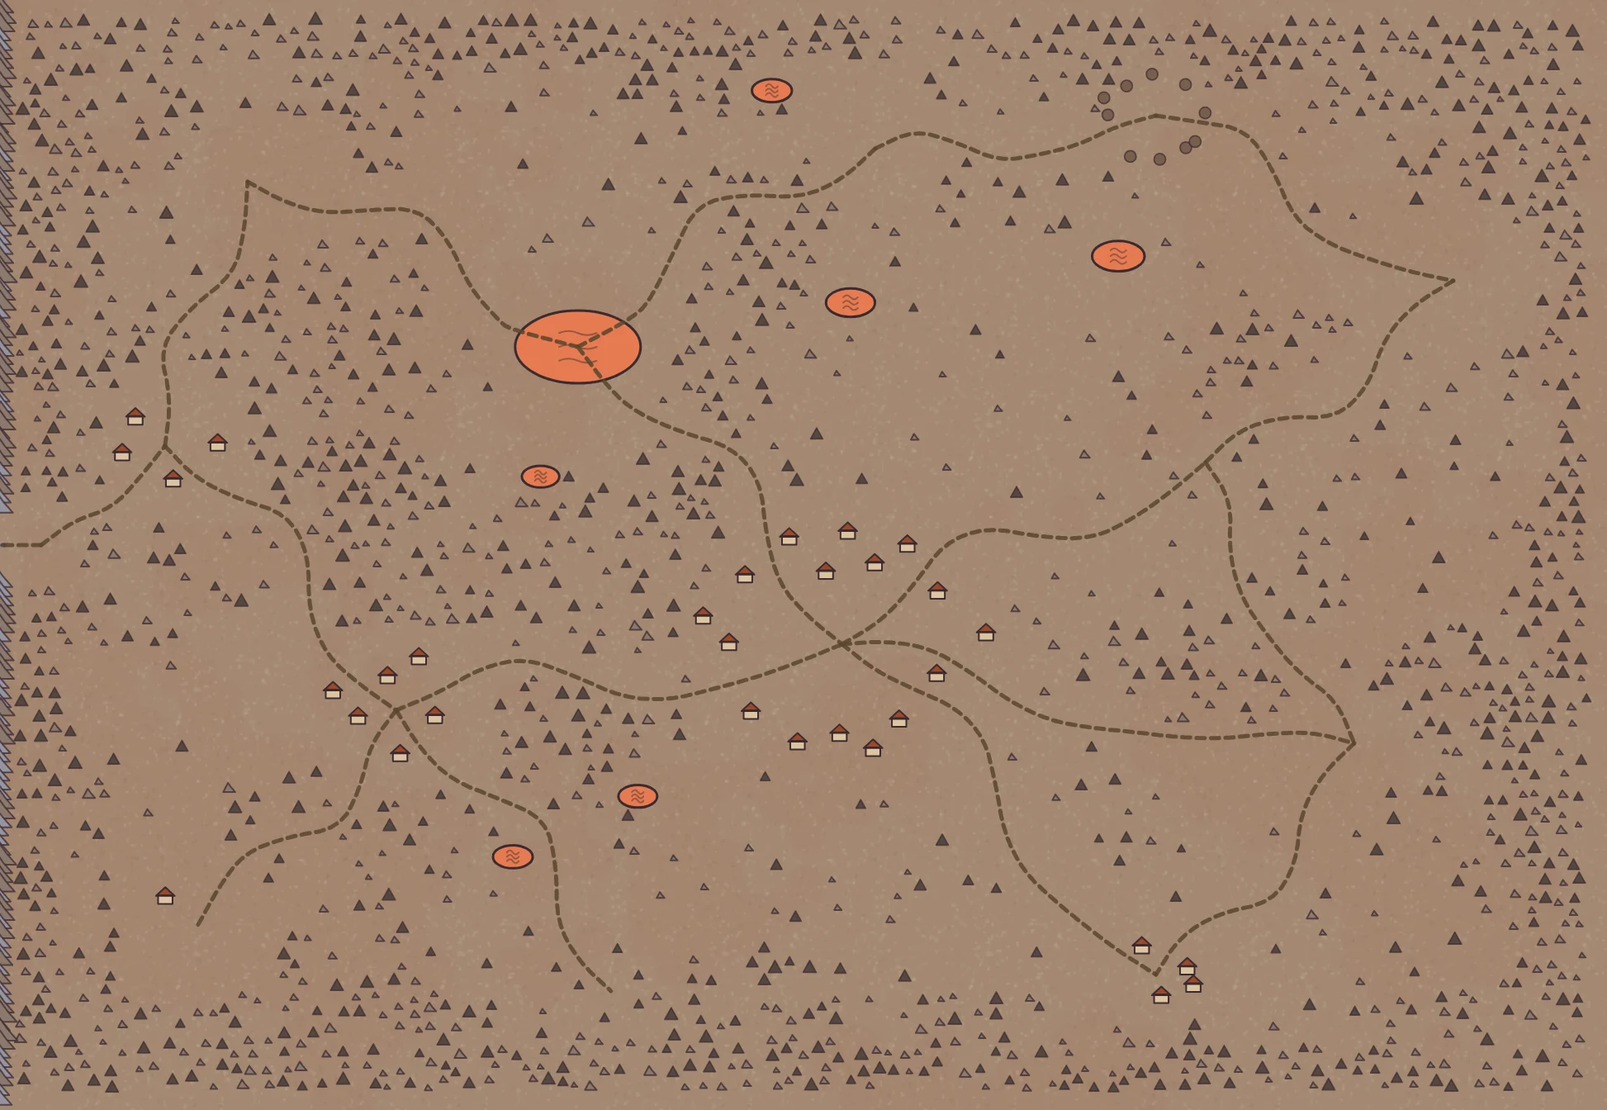
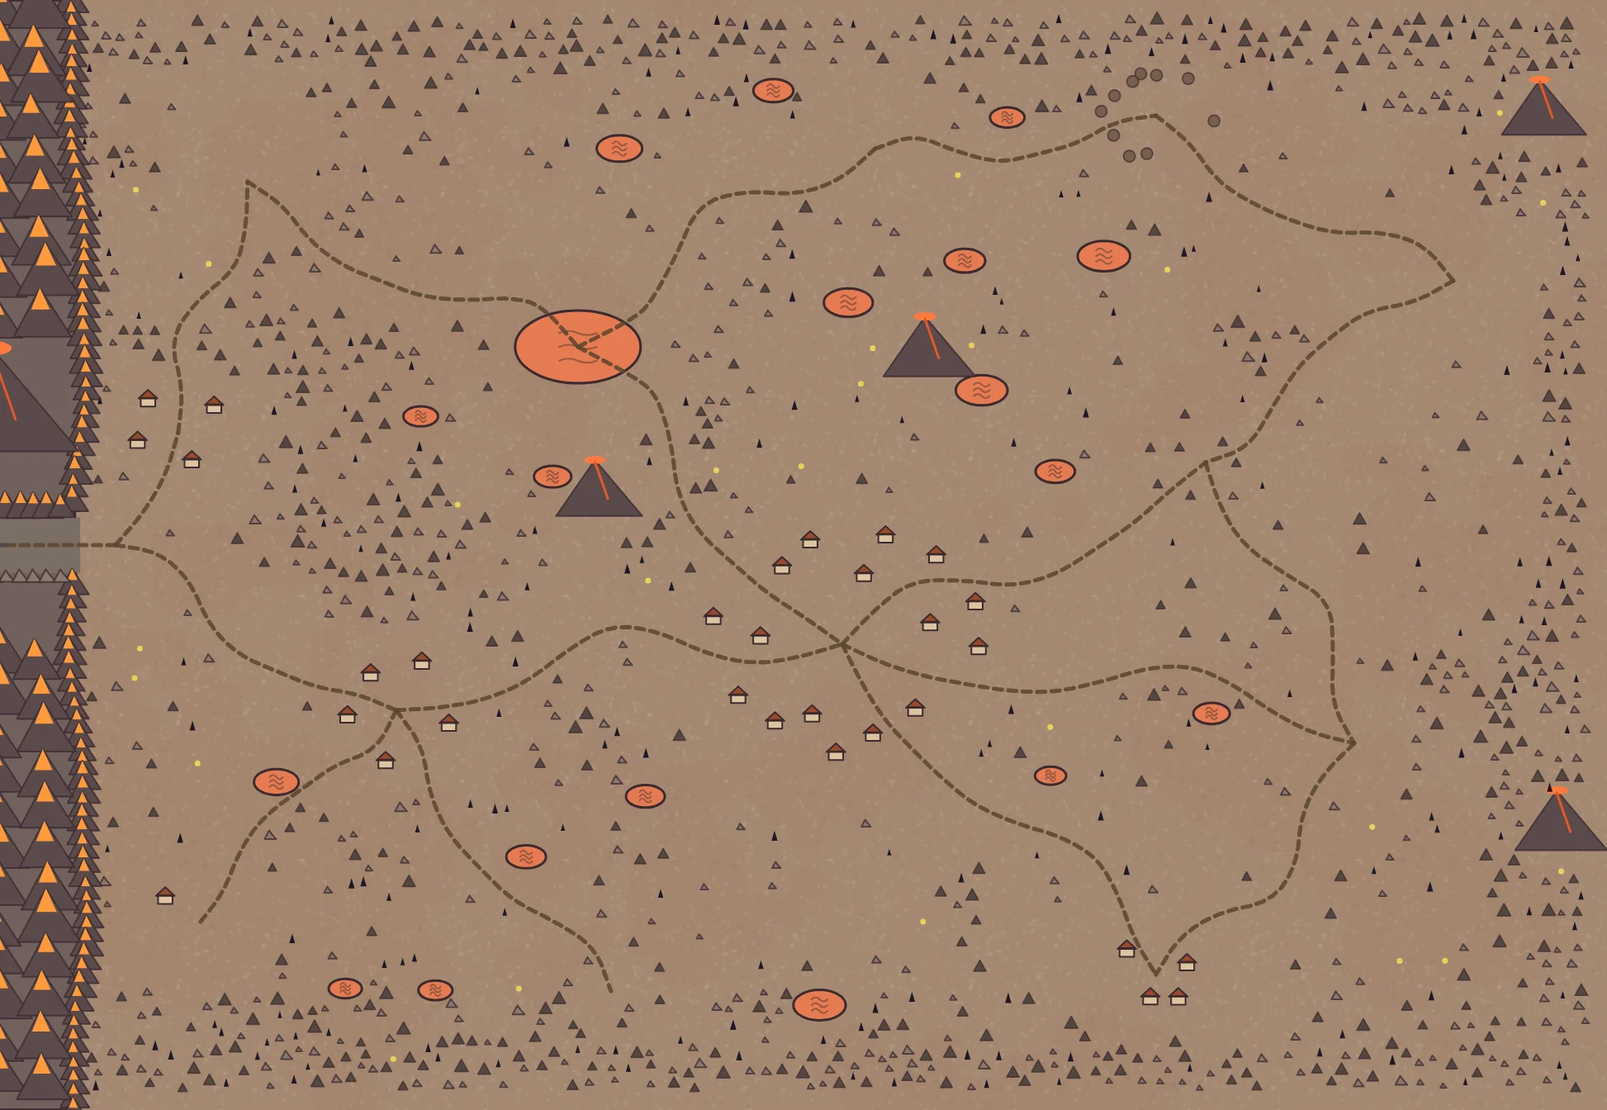
New borders, distinct lands, Starfall events, sieges and a hint of the depths
Re-baked the maps (mountain ranges, volcanoes, the cave), rewrote the lands
and world copy in English, German and Bosnian, level 30 and 60 achievements,
and new feature cards for fallen stars, town sieges and a hint at what lies
beneath the Dawn Forge. The map bake leaves the depths out.

diff --git a/src/i18n/page.en.ts b/src/i18n/page.en.ts
@@ -3,7 +3,7 @@
 export const page = {
   "meta.description": "Starfall Grove is a pop-up paper storybook action RPG. Walk one vast valley of four lands, choose one of five heroes with a story of their own, and defeat the guardians and the Eclipse. Play in your browser, on Android and on iPhone and iPad.",
   "story.p2": "Then a star falls out of the sky, and the lights begin to go out. Master Orrin walks into the dark with his lantern and does not come back. Creatures stir in the tall grass, and a shadow older than the valley starts to wake.",
-  "world.text": "The valley is one continuous world, with no loading between lands. You pass from one land to the next through a gate: the Gloomwater river and its bridge between the Meadow and the Woods, cliffs at the other borders. Each land has its own light, weather, music, city and creatures found nowhere else.",
+  "world.text": "The valley is one continuous world, with no loading between lands, and every border is a journey of its own. Rebuild the bridge over the Gloomwater river to reach the Woods. Smash a path through the rockfall that buries Frostspine Pass, high in the snowy mountains, to climb to the Summit. Break open the caved-in mouth of the Cindermaw, a cave through a smoking volcano, to reach the Ember Wastes. Each land has its own light, weather, music, city and creatures found nowhere else.",
   "story.p1": "Three lights keep the valley safe: the <b>Beacon</b> on the meadow hill, the <b>Bell</b> beneath the roots of the wood, and the <b>Star</b> above the summit. Nobody alive remembers why they were lit.",
   "heroes.text": "Every hero has their own level, bag, spells and main questline. You can drag them on the pedestal to turn them, tap an ability to see what it does, or try on a legendary set.",
   "story.p3": "Its name is <b>Umbra, the Eclipse</b>. It wears the shape of whatever you fear the most, so no two heroes meet the same guardians, and none of them walk the same road.",
@@ -12,10 +12,10 @@ export const page = {
   "faq.a5": "It's five. Every hero has their own main questline, cutscenes, guardians and ending. The four lands and their side quests are the same for everyone.",
   "play.text": "Play on a phone, a tablet or a computer. On touch screens you get a thumb stick and a spell wheel, and on a keyboard you get keys you can rebind.",
   "faq.a4": "An up-to-date browser on a phone, tablet or computer, or the app from Google Play or the App Store. You can play with touch or with a keyboard.",
-  "f.spells.p": "Every hero learns five abilities up to level 25, from gravity wells to blizzards. Each one can be upgraded with up to five stars.",
-  "world.woods": "Lantern-lit paths under ancient roots, and the lanterns of <b>Lanternmarket</b>. Somewhere below, the Bell has gone silent. Shadewolves, webspinners and boglings hunt among the roots.",
-  "world.meadow": "Flower fields, farms and villages around <b>Goldenhearth</b> and its fountain plaza. The Beacon stands dark on its hill. Gloomlings, thornlings and bristleboars roam the grass, and the Gloomwater river cuts it off from the woods.",
-  "world.ember": "An ash desert of lava lakes and a smoky red night, ruled from <b>Brasshaven</b>. The cold Dawn Forge waits at its heart. Ember imps, ash scorpions and cinderhounds rule the sand.",
+  "f.spells.p": "Every hero learns five abilities, from gravity wells to blizzards, and grows all the way to level 30. Each ability can be upgraded with up to five stars.",
+  "world.woods": "A deep forest of giant oaks hung with moss, dark bogs full of lily pads, fairy rings that glow at night and the lanterns of <b>Lanternmarket</b>. Somewhere below, the Bell has gone silent. Shadewolves, webspinners and boglings hunt among the roots, and a wall of snowy peaks rises in the east.",
+  "world.meadow": "Rolling green country: wildflower meadows of lavender, poppies and buttercups, orchards heavy with fruit, hedgerows and beehives around the villages and <b>Goldenhearth</b>. The Beacon stands dark on its hill. Gloomlings, thornlings and bristleboars roam the grass, and the Gloomwater river cuts it off from the woods.",
+  "world.ember": "An ash desert of volcanoes and lava lakes under a smoky red night: lava running down black slopes, obsidian spires, steaming fumaroles and old bones in the sand, ruled from <b>Brasshaven</b>. The cold Dawn Forge waits at its heart. Ember imps, ash scorpions and cinderhounds rule the sand.",
   "f.mounts.p": "Buy a pony, a stag, a frost wolf or a cinder drake from the stable master in any city, or win a boar or the starlit unicorn in battle. They're faster in the saddle and fun to show off.",
   "play.browser.p": "Play right now on any modern browser, on a phone, tablet or PC. You can also install it to your home screen like an app.",
   "f.guardians.p": "Umbra's shadow takes a different shape for every hero, so there are 25 guardians, each with their own look and attacks.",
@@ -23,14 +23,14 @@ export const page = {
   "map.canvas": "Map of the valley, fully explored. Drag to move, pinch or scroll to zoom, or use the arrow keys and plus and minus.",
   "f.loot.p": "Nine gear slots and five rarities, from common to legendary. Whatever your hero wears shows on their paper figure.",
   "play.android.p": "On Google Play, for Android phones and tablets. It plays full screen, and the back button works as you'd expect.",
-  "world.summit": "Snowfields, frost runes and the high halls of <b>Cloudcrest</b>, below the crater where the Hollow Star came down. Void wisps, frost wraiths and snowfangs haunt the heights.",
+  "world.summit": "Mountain country: crag ridges, small snowy peaks, frozen tarns, cairns along the trails and the high halls of <b>Cloudcrest</b>, below the crater where the Hollow Star came down. Void wisps, frost wraiths and snowfangs haunt the heights, and a smoking volcano bars the way east.",
   "meta.ldDescription": "A pop-up paper storybook action RPG: four lands, five heroes with their own stories, and one fallen star.",
   "meta.ogDescription": "Four lands, five heroes and one fallen star. A pop-up paper storybook RPG for phone, tablet and browser.",
   "play.ios.p": "On the App Store, for iPhone and iPad. It's the same valley and the same heroes, sized for your screen.",
   "faq.text": "Anything else? The <a href=\"support/\">support page</a> has more answers and a way to reach us.",
   "f.dice.p": "Villagers and innkeepers challenge you to Starfall Dice and the archery range between quests.",
   "f.secrets.p": "Cracked walls hide what a well-thrown bomb can open, and runestones tell the valley's lore.",
-  "f.ach.p": "Chapters, guardians, secrets and feats of combat, worth 985 points in six categories.",
+  "f.ach.p": "Chapters, guardians, fallen stars, secrets and feats of combat, worth 1,140 points in six categories.",
   "faq.a1": "No. There is no sign-up and no login. Your heroes are saved on your own device.",
   "f.films.p": "Each hero's adventure opens with its own animated film and an original score.",
   "hero.play": "Play <span class=\"long\">in your browser</span><span class=\"short\">now</span>",
@@ -86,7 +86,7 @@ export const page = {
   "badge.downloadOn": "Download on the",
   "cast.label": "Meet the heroes",
   "world.openMapOf": "Open the map of",
-  "f.ach.h": "53 achievements",
+  "f.ach.h": "60 achievements",
   "play.browser.h": "In your browser",
   "film.label": "Hero intro film",
   "light.forge": "The Dawn Forge",
@@ -126,6 +126,12 @@ export const page = {
   "nav.menu": "Menu",
   "badge.soon": "Soon",
   "faq.language": "",
+  "f.starfall.h": "A star has fallen!",
+  "f.starfall.p": "Every now and then a star comes down somewhere in the valley. Race to its crater for star fragments, creatures touched by its light, a beast that fell with it and a star-forged chest with a legendary inside.",
+  "f.sieges.h": "Towns under siege",
+  "f.sieges.p": "When the shadow strikes back, it comes for the houses: whole hordes pour out of the dark from every side and set the roofs alight. Drive them off before the town burns.",
+  "f.depths.h": "The last light is not the end",
+  "f.depths.p": "The old songs say the Dawn Forge was built over something, and lit so it would stay shut. Listen to the ground when the last guardian falls.",
 };
 
 export type PageKey = keyof typeof page;

diff --git a/src/i18n/page.de.ts b/src/i18n/page.de.ts
@@ -52,30 +52,30 @@ export const page: Record<PageKey, string> = {
   'noscript.wren': '<b>Wren, Waldläuferin</b>: Langbogen, Tempo und Fenn, ihr treuer Wolf.',
   'world.eyebrow': 'Ein Tal, vier Länder',
   'world.title': 'Von der Blumenwiese bis in die Asche',
-  'world.text': 'Das Tal ist eine zusammenhängende Welt, ohne Ladezeiten zwischen den Ländern. Du gehst durch ein Tor von einem Land ins nächste: zwischen Wiese und Wald über den Fluss Gloomwater und seine Brücke, an den anderen Grenzen durch die Klippen. Jedes Land hat sein eigenes Licht, Wetter, Musik, eine eigene Stadt und Kreaturen, die es nirgends sonst gibt.',
+  'world.text': 'Das Tal ist eine zusammenhängende Welt, ohne Ladezeiten zwischen den Ländern, und jede Grenze ist eine Reise für sich. Baue die Brücke über den Fluss Gloomwater wieder auf, um in den Wald zu gelangen. Zerschlage den Felssturz, der den Frostspine-Pass hoch in den verschneiten Bergen verschüttet, um zum Gipfel aufzusteigen. Brich den eingestürzten Eingang des Cindermaw auf, einer Höhle durch einen rauchenden Vulkan, um die Glutwüste zu erreichen. Jedes Land hat sein eigenes Licht, Wetter, Musik, eine eigene Stadt und Kreaturen, die es nirgends sonst gibt.',
   'world.openMap': 'Karte öffnen',
   'world.openMapOf': 'Karte öffnen:',
   'world.ch1': 'Kapitel I · Stufe 1–6',
   'world.ch2': 'Kapitel II · Stufe 7–12',
   'world.ch3': 'Kapitel III · Stufe 13–18',
   'world.ch4': 'Kapitel IV · Stufe 19–24',
-  'world.meadow': 'Blumenfelder, Höfe und Dörfer rund um <b>Goldenhearth</b> und seinen Brunnenplatz. Das Leuchtfeuer steht dunkel auf seinem Hügel. Düsterlinge, Dornlinge und Borstenkeiler streifen durchs Gras, und der Fluss Gloomwater trennt es vom Wald.',
-  'world.woods': 'Laternenbeleuchtete Pfade unter uralten Wurzeln und die Laternen von <b>Lanternmarket</b>. Irgendwo in der Tiefe ist die Glocke verstummt. Schattenwölfe, Netzspinner und Moorlinge jagen zwischen den Wurzeln.',
-  'world.summit': 'Schneefelder, Frostrunen und die hohen Hallen von <b>Cloudcrest</b>, unterhalb des Kraters, in den der Hohle Stern stürzte. Leerenirrlichter, Frostgeister und Schneefänge spuken in den Höhen.',
-  'world.ember': 'Eine Aschewüste aus Lavaseen unter einem rauchig roten Nachthimmel, regiert von <b>Brasshaven</b> aus. In ihrem Herzen wartet die kalte Morgenschmiede. Glutkobolde, Aschenskorpione und Aschehunde beherrschen den Sand.',
+  'world.meadow': 'Sanftes grünes Land: Wildblumenwiesen voller Lavendel, Mohn und Butterblumen, Obstgärten voller Früchte, Hecken und Bienenkörbe rund um die Dörfer und <b>Goldenhearth</b>. Das Leuchtfeuer steht dunkel auf seinem Hügel. Düsterlinge, Dornlinge und Borstenkeiler streifen durchs Gras, und der Fluss Gloomwater trennt es vom Wald.',
+  'world.woods': 'Ein tiefer Wald aus moosbehangenen Rieseneichen, dunkle Moore voller Seerosen, Feenringe, die nachts leuchten, und die Laternen von <b>Lanternmarket</b>. Irgendwo in der Tiefe ist die Glocke verstummt. Schattenwölfe, Netzspinner und Moorlinge jagen zwischen den Wurzeln, und im Osten erhebt sich eine Wand verschneiter Gipfel.',
+  'world.summit': 'Bergland: Felsgrate, kleine verschneite Gipfel, zugefrorene Bergseen, Steinmänner an den Pfaden und die hohen Hallen von <b>Cloudcrest</b>, unterhalb des Kraters, in den der Hohle Stern stürzte. Leerenirrlichter, Frostgeister und Schneefänge spuken in den Höhen, und ein rauchender Vulkan versperrt den Weg nach Osten.',
+  'world.ember': 'Eine Aschewüste aus Vulkanen und Lavaseen unter einem rauchig roten Nachthimmel: Lava, die schwarze Hänge hinabfließt, Obsidiantürme, dampfende Fumarolen und alte Knochen im Sand, regiert von <b>Brasshaven</b> aus. In ihrem Herzen wartet die kalte Morgenschmiede. Glutkobolde, Aschenskorpione und Aschehunde beherrschen den Sand.',
   'world.valley': 'Karte des ganzen Tals öffnen',
   'features.eyebrow': 'Was im Tal auf dich wartet',
   'features.title': 'Ein ganzes Bilderbuch zum Entdecken',
   'f.spells.h': '25 Zauber zum Meistern',
-  'f.spells.p': 'Jeder Held lernt bis Stufe 25 fünf Fähigkeiten, von Schwerkraftbrunnen bis zu Schneestürmen. Jede lässt sich mit bis zu fünf Sternen verbessern.',
+  'f.spells.p': 'Jeder Held lernt fünf Fähigkeiten, von Schwerkraftbrunnen bis zu Schneestürmen, und wächst bis Stufe 30. Jede Fähigkeit lässt sich mit bis zu fünf Sternen verbessern.',
   'f.guardians.h': 'Wächter aus Angst',
   'f.guardians.p': 'Umbras Schatten nimmt für jeden Helden eine andere Gestalt an. So gibt es 25 Wächter, jeder mit eigenem Aussehen und eigenen Angriffen.',
   'f.loot.h': 'Beute, die man sieht',
   'f.loot.p': 'Neun Ausrüstungsplätze und fünf Seltenheitsstufen, von gewöhnlich bis legendär. Was dein Held trägt, siehst du an seiner Papierfigur.',
   'f.mounts.h': 'Reittiere und Spuren',
   'f.mounts.p': 'Kauf beim Stallmeister jeder Stadt ein Pony, einen Hirsch, einen Frostwolf oder einen Glutdrachen, oder erkämpfe dir einen Keiler oder das Sterneneinhorn. Im Sattel bist du schneller, und angeben macht auch Spaß.',
-  'f.ach.h': '53 Erfolge',
-  'f.ach.p': 'Kapitel, Wächter, Geheimnisse und Heldentaten im Kampf, zusammen 985 Punkte in sechs Kategorien.',
+  'f.ach.h': '60 Erfolge',
+  'f.ach.p': 'Kapitel, Wächter, gefallene Sterne, Geheimnisse und Heldentaten im Kampf, zusammen 1.140 Punkte in sechs Kategorien.',
   'f.dice.h': 'Würfel und Bogenschießen',
   'f.dice.p': 'Dorfbewohner und Wirte fordern dich zwischen den Aufträgen zu Starfall Dice und auf dem Schießstand heraus.',
   'f.secrets.h': 'Geheimnisse in jedem Land',
@@ -127,4 +127,10 @@ export const page: Record<PageKey, string> = {
   'map.canvas': 'Karte des Tals, vollständig erkundet. Ziehen zum Verschieben, Zwei-Finger-Geste oder Mausrad zum Zoomen, oder Pfeiltasten und Plus und Minus.',
   'map.zoomIn': 'Vergrößern',
   'map.zoomOut': 'Verkleinern',
+  'f.starfall.h': 'Ein Stern ist gefallen!',
+  'f.starfall.p': 'Hin und wieder stürzt irgendwo im Tal ein Stern herab. Eile zu seinem Krater: Sternsplitter, Kreaturen, die sein Licht berührt hat, ein Ungeheuer, das mit ihm fiel, und eine sterngeschmiedete Truhe mit einem legendären Stück darin.',
+  'f.sieges.h': 'Städte unter Belagerung',
+  'f.sieges.p': 'Wenn der Schatten zurückschlägt, kommt er für die Häuser: ganze Horden strömen von allen Seiten aus der Dunkelheit und stecken die Dächer in Brand. Vertreibe sie, bevor die Stadt brennt.',
+  'f.depths.h': 'Das letzte Licht ist nicht das Ende',
+  'f.depths.p': 'Die alten Lieder sagen, die Morgenschmiede sei über etwas gebaut worden, und man habe sie entzündet, damit es verschlossen bleibt. Horche auf den Boden, wenn der letzte Wächter fällt.',
 };

diff --git a/src/i18n/page.bs.ts b/src/i18n/page.bs.ts
@@ -52,30 +52,30 @@ export const page: Record<PageKey, string> = {
   'noscript.wren': '<b>Wren, lovkinja</b>: dugi luk, brzina i Fenn, njen vjerni vuk.',
   'world.eyebrow': 'Jedna dolina, četiri zemlje',
   'world.title': 'Od livade do pepela',
-  'world.text': 'Dolina je jedan neprekidan svijet, bez učitavanja između zemalja. Iz jedne zemlje u drugu prelaziš kroz kapiju: između livade i šume preko rijeke Gloomwater i njenog mosta, a na ostalim granicama kroz litice. Svaka zemlja ima svoju svjetlost, vrijeme, muziku, svoj grad i stvorenja kojih nigdje drugdje nema.',
+  'world.text': 'Dolina je jedan neprekidan svijet, bez učitavanja između zemalja, a svaka granica je putovanje za sebe. Ponovo izgradi most preko rijeke Gloomwater da stigneš do šume. Probij se kroz odron koji je zatrpao prijevoj Frostspine, visoko u snježnim planinama, da se popneš na vrh. Razbij zarušeni ulaz u Cindermaw, pećinu kroz vulkan koji se dimi, da stigneš do Žarke pustinje. Svaka zemlja ima svoju svjetlost, vrijeme, muziku, svoj grad i stvorenja kojih nigdje drugdje nema.',
   'world.openMap': 'Otvori mapu',
   'world.openMapOf': 'Otvori mapu:',
   'world.ch1': 'Poglavlje I · Nivo 1–6',
   'world.ch2': 'Poglavlje II · Nivo 7–12',
   'world.ch3': 'Poglavlje III · Nivo 13–18',
   'world.ch4': 'Poglavlje IV · Nivo 19–24',
-  'world.meadow': 'Cvjetna polja, farme i sela oko <b>Goldenhearth</b>a i njegovog trga sa česmom. Svjetionik stoji ugašen na svom brdu. Travom lutaju sjenčići, trnčići i čekinjasti veprovi, a rijeka Gloomwater dijeli je od šume.',
-  'world.woods': 'Staze obasjane fenjerima ispod drevnog korijenja i fenjeri <b>Lanternmarket</b>a. Negdje u dubini, Zvono je utihnulo. Među korijenjem love sjenoviti vukovi, paukovi pletači i močvarci.',
-  'world.summit': 'Snježna polja, rune mraza i visoke dvorane <b>Cloudcresta</b>, ispod kratera u koji je pala Šuplja zvijezda. Na visinama lutaju svjetlaci praznine, ledeni duhovi i snježnozupci.',
-  'world.ember': 'Pustinja pepela s jezerima lave pod dimljivo crvenom noći, kojom se vlada iz <b>Brasshaven</b>a. U njenom srcu čeka hladna Kovačnica zore. Pijeskom vladaju žarki vragolani, pepeljasti škorpioni i pepeljasti psi.',
+  'world.meadow': 'Blago zeleno brdovito područje: livade divljeg cvijeća pune lavande, maka i ljutića, voćnjaci puni plodova, živice i košnice oko sela i <b>Goldenhearth</b>a. Svjetionik stoji ugašen na svom brdu. Travom lutaju sjenčići, trnčići i čekinjasti veprovi, a rijeka Gloomwater dijeli je od šume.',
+  'world.woods': 'Duboka šuma golemih hrastova obraslih mahovinom, tamne močvare pune lopoča, vilinski krugovi koji noću svijetle i fenjeri <b>Lanternmarket</b>a. Negdje u dubini, Zvono je utihnulo. Među korijenjem love sjenoviti vukovi, paukovi pletači i močvarci, a na istoku se diže zid snježnih vrhova.',
+  'world.summit': 'Planinski kraj: kameni grebeni, mali snježni vrhovi, zaleđena jezera, kamene gomile uz staze i visoke dvorane <b>Cloudcresta</b>, ispod kratera u koji je pala Šuplja zvijezda. Na visinama lutaju svjetlaci praznine, ledeni duhovi i snježnozupci, a vulkan koji se dimi zatvara put na istok.',
+  'world.ember': 'Pustinja pepela s vulkanima i jezerima lave pod dimljivo crvenom noći: lava koja teče niz crne padine, kule od opsidijana, fumarole koje se puše i stare kosti u pijesku, a vlada se iz <b>Brasshaven</b>a. U njenom srcu čeka hladna Kovačnica zore. Pijeskom vladaju žarki vragolani, pepeljasti škorpioni i pepeljasti psi.',
   'world.valley': 'Otvori mapu cijele doline',
   'features.eyebrow': 'Šta te čeka u dolini',
   'features.title': 'Cijela slikovnica za istraživanje',
   'f.spells.h': '25 čini za savladati',
-  'f.spells.p': 'Svaki junak do nivoa 25 nauči pet sposobnosti, od gravitacijskih bunara do mećava. Svaka se može poboljšati sa do pet zvjezdica.',
+  'f.spells.p': 'Svaki junak nauči pet sposobnosti, od gravitacijskih bunara do mećava, i raste sve do nivoa 30. Svaka sposobnost se može poboljšati sa do pet zvjezdica.',
   'f.guardians.h': 'Čuvari od straha',
   'f.guardians.p': 'Umbrina sjena za svakog junaka poprima drugačiji oblik, pa postoji 25 čuvara, svaki sa svojim izgledom i napadima.',
   'f.loot.h': 'Plijen koji se vidi',
   'f.loot.p': 'Devet mjesta za opremu i pet stepena rijetkosti, od obične do legendarne. Sve što junak nosi vidi se na njegovoj papirnoj figuri.',
   'f.mounts.h': 'Jahaće životinje i tragovi',
   'f.mounts.p': 'Kupi ponija, jelena, ledenog vuka ili žarkog zmaja kod konjušara u bilo kojem gradu, ili osvoji vepra i zvjezdanog jednoroga u borbi. U sedlu si brži, a i lijepo ih je pokazati.',
-  'f.ach.h': '53 dostignuća',
-  'f.ach.p': 'Poglavlja, čuvari, tajne i podvizi u borbi, ukupno 985 bodova u šest kategorija.',
+  'f.ach.h': '60 dostignuća',
+  'f.ach.p': 'Poglavlja, čuvari, pale zvijezde, tajne i podvizi u borbi, ukupno 1.140 bodova u šest kategorija.',
   'f.dice.h': 'Kocke i streličarstvo',
   'f.dice.p': 'Seljani i krčmari te između zadataka izazivaju na Starfall Dice i na streljanu.',
   'f.secrets.h': 'Tajne u svakoj zemlji',
@@ -127,4 +127,10 @@ export const page: Record<PageKey, string> = {
   'map.canvas': 'Mapa doline, potpuno istražena. Povuci za pomjeranje, raširi prste ili koristi točkić miša za uvećanje, ili koristi strelice te plus i minus.',
   'map.zoomIn': 'Uvećaj',
   'map.zoomOut': 'Umanji',
+  'f.starfall.h': 'Pala je zvijezda!',
+  'f.starfall.p': 'S vremena na vrijeme negdje u dolini padne zvijezda. Požuri do njenog kratera: komadići zvijezde, stvorenja koja je dotakla njena svjetlost, zvijer koja je pala s njom i škrinja iskovana od zvijezde, s legendarnim predmetom unutra.',
+  'f.sieges.h': 'Gradovi pod opsadom',
+  'f.sieges.p': 'Kad sjena uzvrati udarac, dolazi po kuće: čitave horde nadiru iz mraka sa svih strana i pale krovove. Otjeraj ih prije nego što grad izgori.',
+  'f.depths.h': 'Posljednja svjetlost nije kraj',
+  'f.depths.p': 'Stare pjesme kažu da je Kovačnica zore sagrađena iznad nečega i upaljena da to ostane zatvoreno. Osluhni tlo kad padne posljednji čuvar.',
 };

diff --git a/index.html b/index.html
@@ -209,7 +209,10 @@
           <article class="feature reveal" style="--spell:#c8e6a0"><b aria-hidden="true">♞</b><h3>%t.f.mounts.h%</h3><p>%t.f.mounts.p%</p></article>
           <article class="feature reveal" style="--spell:#b69cff"><b aria-hidden="true">★</b><h3>%t.f.ach.h%</h3><p>%t.f.ach.p%</p></article>
           <article class="feature reveal" style="--spell:#9fe4ff"><b aria-hidden="true">⚄&#xFE0E;</b><h3>%t.f.dice.h%</h3><p>%t.f.dice.p%</p></article>
+          <article class="feature reveal" style="--spell:#fff1b8"><b aria-hidden="true">✶</b><h3>%t.f.starfall.h%</h3><p>%t.f.starfall.p%</p></article>
+          <article class="feature reveal" style="--spell:#ff9a6b"><b aria-hidden="true">⚑&#xFE0E;</b><h3>%t.f.sieges.h%</h3><p>%t.f.sieges.p%</p></article>
           <article class="feature reveal" style="--spell:#ffb05c"><b aria-hidden="true">✺</b><h3>%t.f.secrets.h%</h3><p>%t.f.secrets.p%</p></article>
+          <article class="feature reveal" style="--spell:#b39cff"><b aria-hidden="true">☽</b><h3>%t.f.depths.h%</h3><p>%t.f.depths.p%</p></article>
           <article class="feature reveal" style="--spell:#e0c8ff"><b aria-hidden="true">▶</b><h3>%t.f.films.h%</h3><p>%t.f.films.p%</p></article>
           <article class="feature reveal" style="--spell:#b9e27a"><b aria-hidden="true">☾</b><h3>%t.f.offline.h%</h3><p>%t.f.offline.p%</p></article>
         </div>
